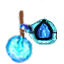
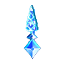
Finalized tower assets

diff --git a/main.py b/main.py
@@ -80,7 +80,7 @@ upgraded_cannon_sheet = pg.image.load('assets/images/turrets/cannon_2.png').conv
 #ice mage
 cursor_ice = pg.image.load('assets/images/turrets/cursor_ice.png').convert_alpha()
 ice_sheet = pg.image.load('assets/images/turrets/ice_mage_1.png').convert_alpha()
-upgraded_ice_sheet = pg.image.load('assets/images/turrets/turret_2.png').convert_alpha()
+upgraded_ice_sheet = pg.image.load('assets/images/turrets/ice_mage_2.png').convert_alpha()
 #fire archer
 cursor_fire = pg.image.load('assets/images/turrets/cursor_fire.png').convert_alpha()
 fire_sheet = pg.image.load('assets/images/turrets/fire_archer_1.png').convert_alpha()
@@ -91,10 +91,10 @@ earth_sheet = pg.image.load('assets/images/turrets/catapult_1.png').convert_alph
 upgraded_earth_sheet = pg.image.load('assets/images/turrets/catapult_2.png').convert_alpha()
 #king
 cursor_king = pg.image.load('assets/images/turrets/cursor_king.png').convert_alpha()
-tower_king = pg.image.load('assets/images/turrets/tower_king.png').convert_alpha()
+#tower_king = pg.image.load('assets/images/turrets/tower_king.png').convert_alpha()
 #market
 cursor_market = pg.image.load('assets/images/turrets/cursor_market.png').convert_alpha()
-tower_market = pg.image.load('assets/images/turrets/tower_market.png').convert_alpha()
+#tower_market = pg.image.load('assets/images/turrets/tower_market.png').convert_alpha()
 
 #buttons
 buy_cannon_image = pg.image.load('assets/images/buttons/cannon_buy_button.png').convert_alpha()
